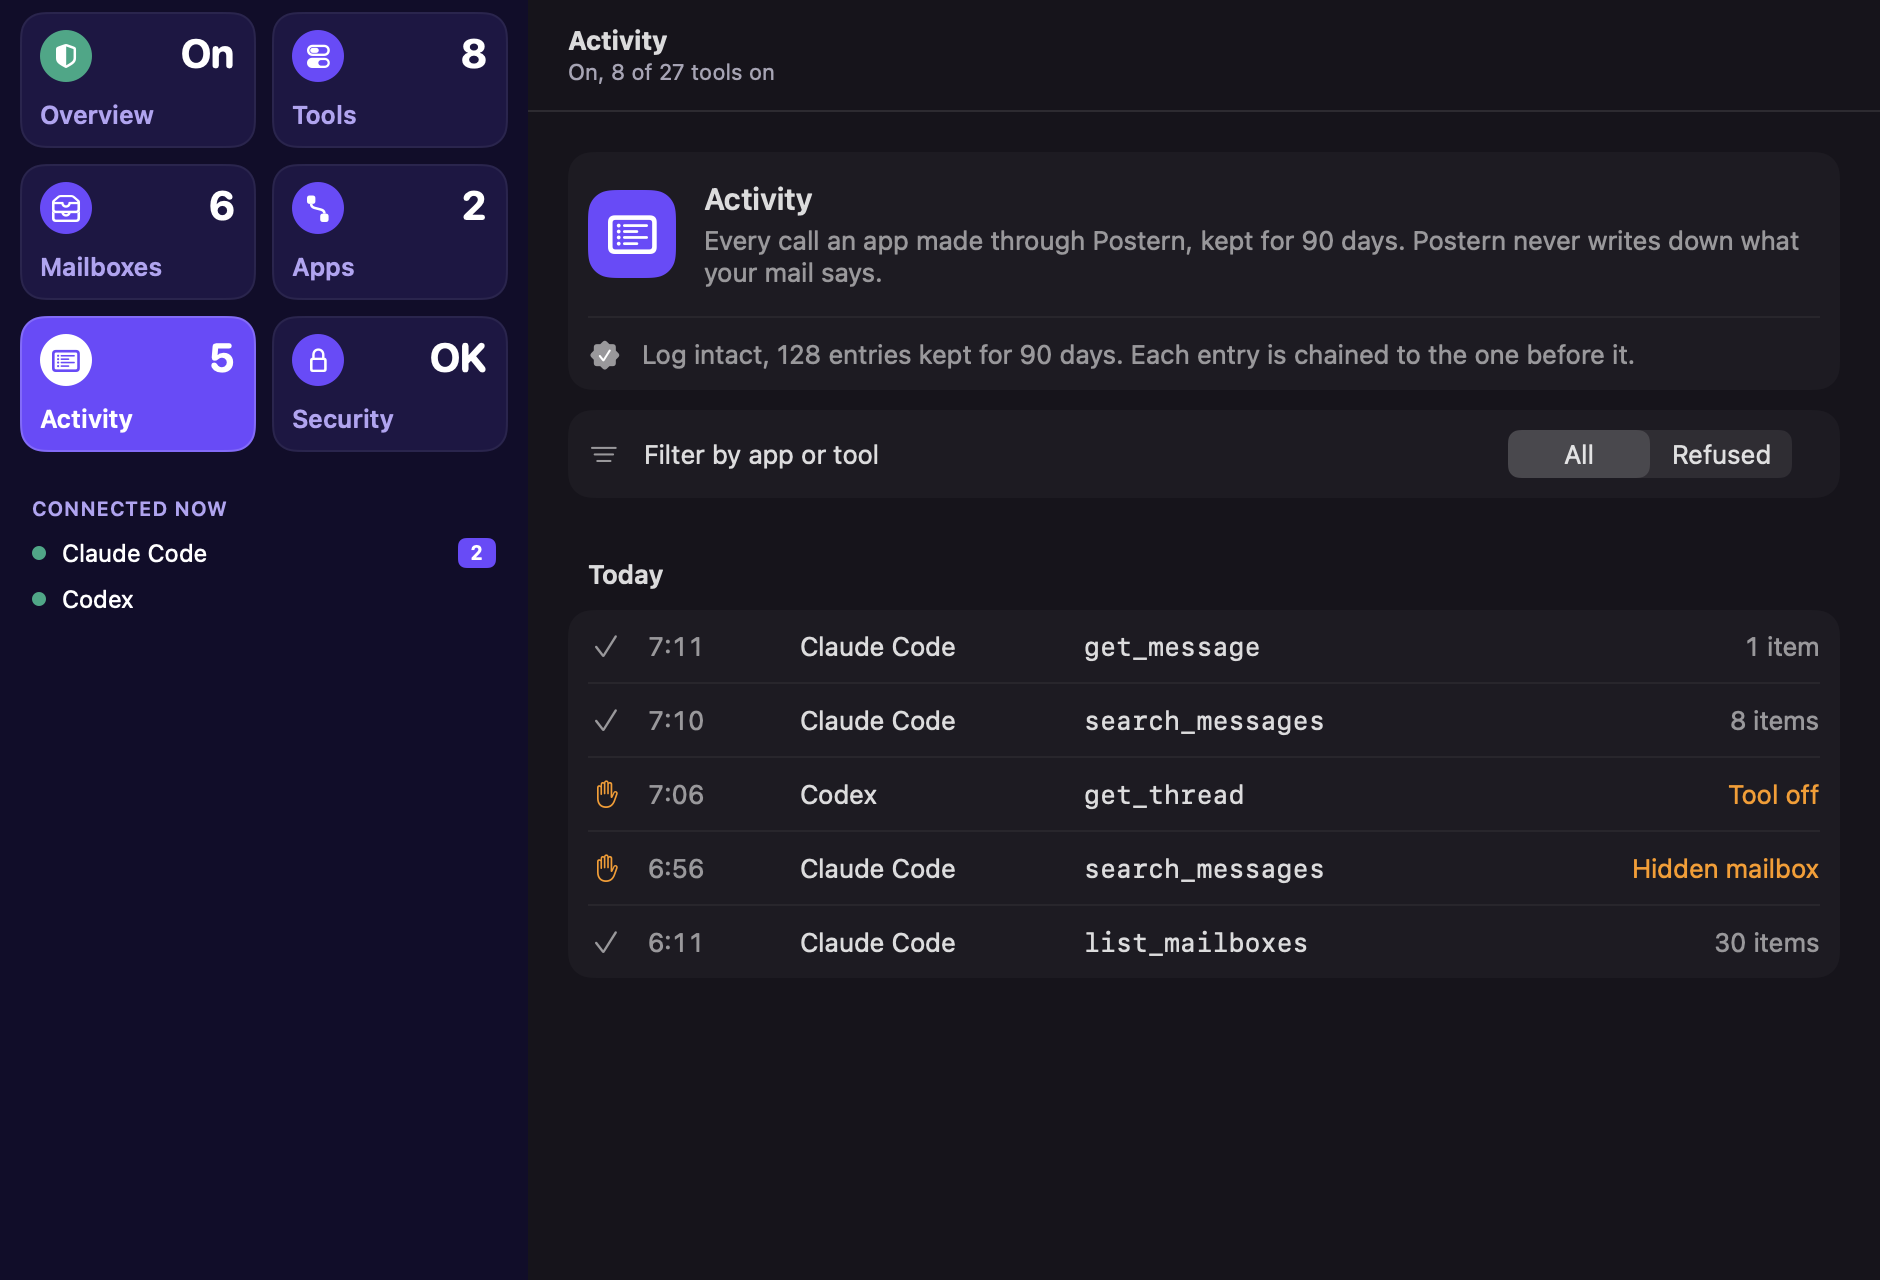
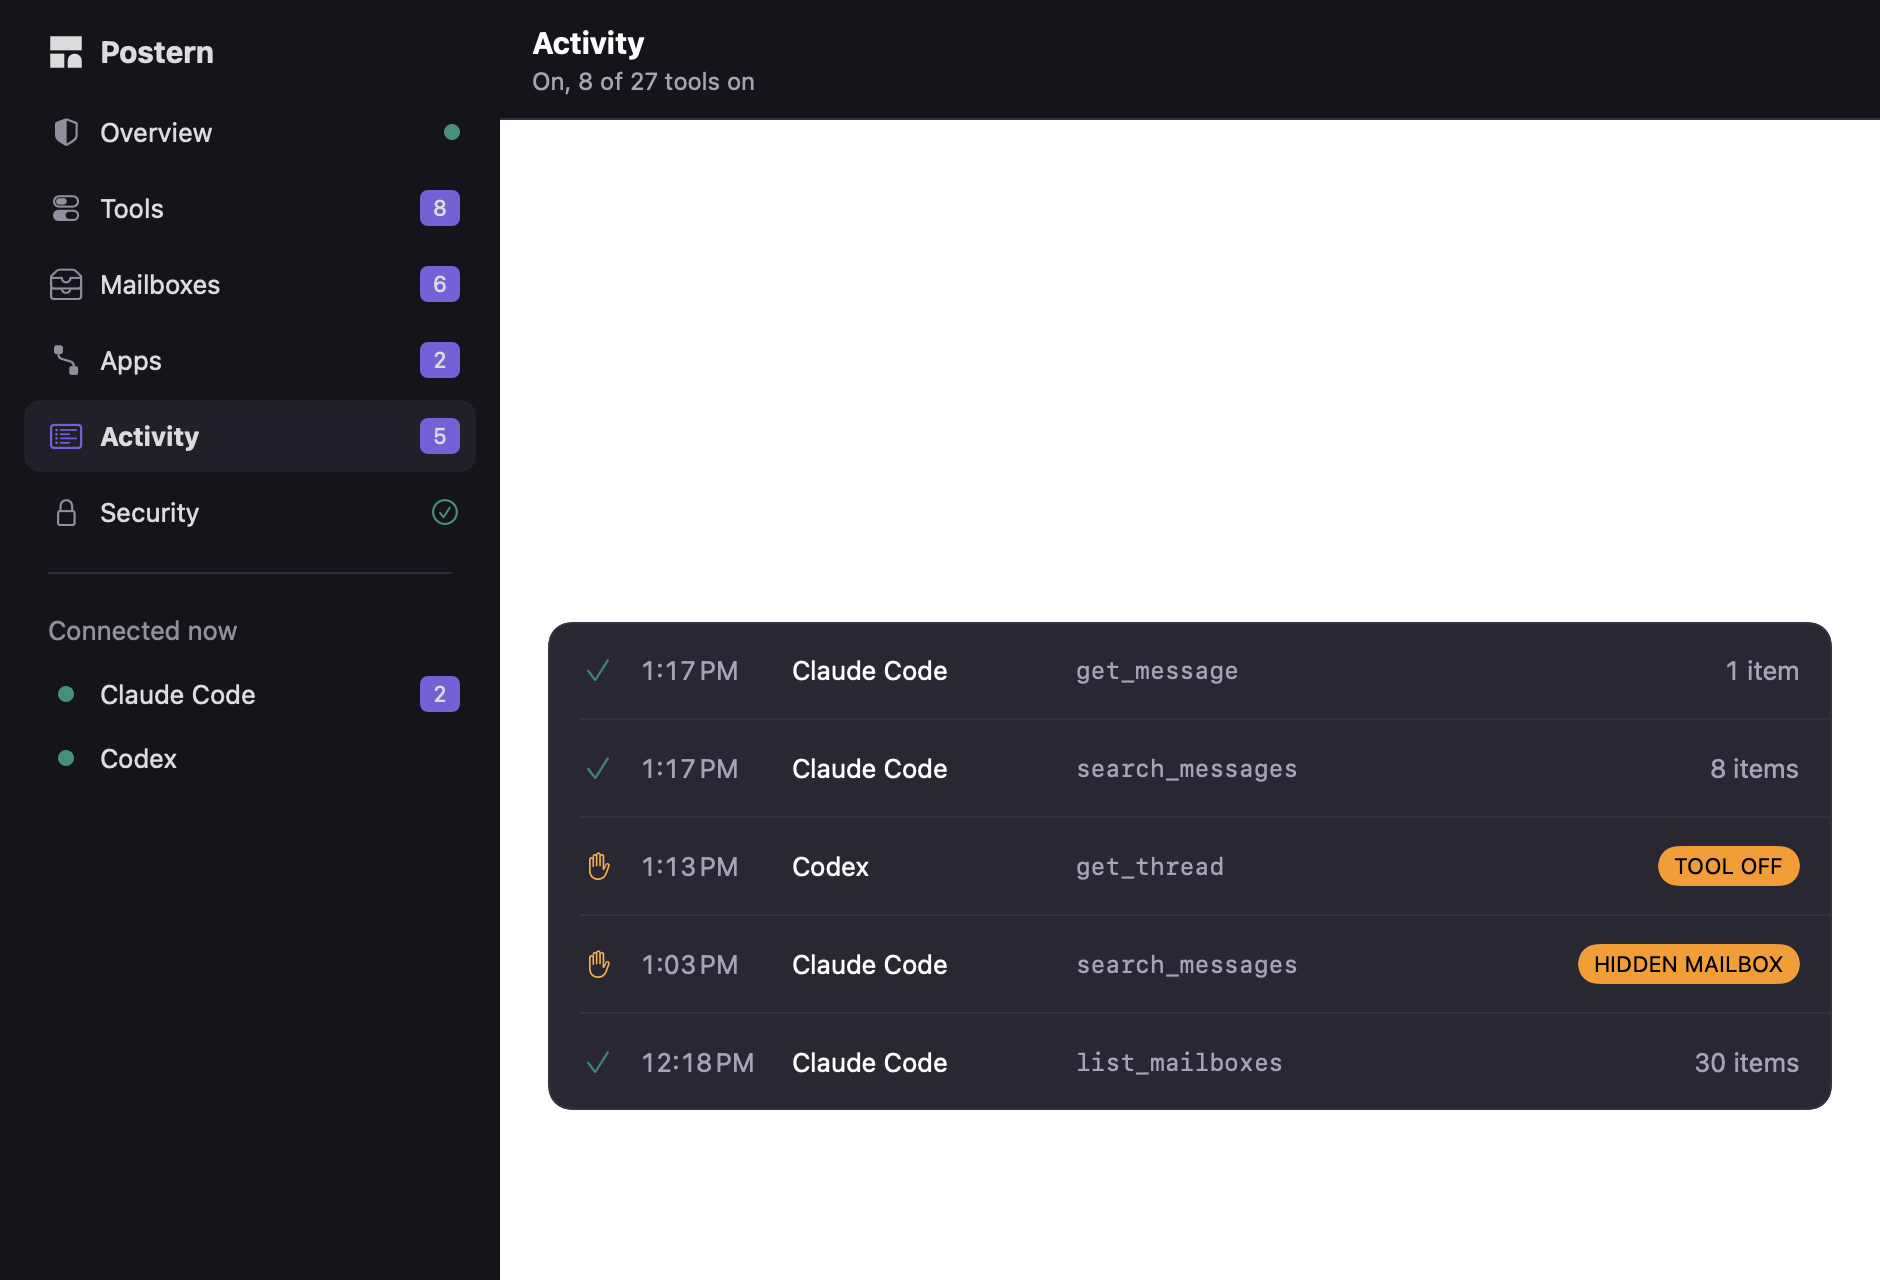
Show the new look in the README's screenshots, and in the changelog

diff --git a/CHANGELOG.md b/CHANGELOG.md
@@ -2,6 +2,10 @@
 
 ## 0.3.0 (unreleased)
 
+- **The look of Proton Mail.** Proton's purple frame in light and its Carbon theme in dark, a sidebar that lists
+  the panes with counters as Proton's navigation does, warm grey cards, radius 8 buttons, Proton's switch, solid
+  badges and banners. The approval panels show the email the way Proton shows an opened message, and their action bar
+  is Liquid Glass, with a Send button that stays solid purple. Text on Proton's orange is black, as in Proton.
 - **Postern speaks your language.** The window, the menus, the approval panels and the Touch ID prompts are in
   English, French, German, Spanish, Italian, Portuguese, Dutch, Polish, Japanese, Chinese and Korean, and follow the
   language of your Mac. Counts take their plural forms, and Proton's folders keep the names Proton gives them in your
